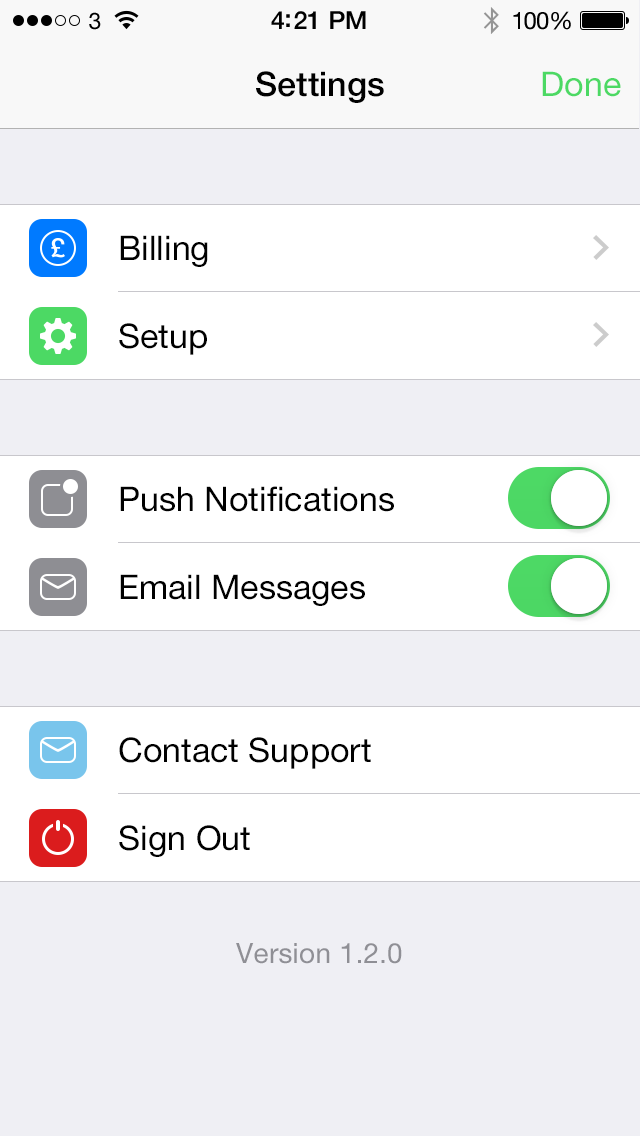
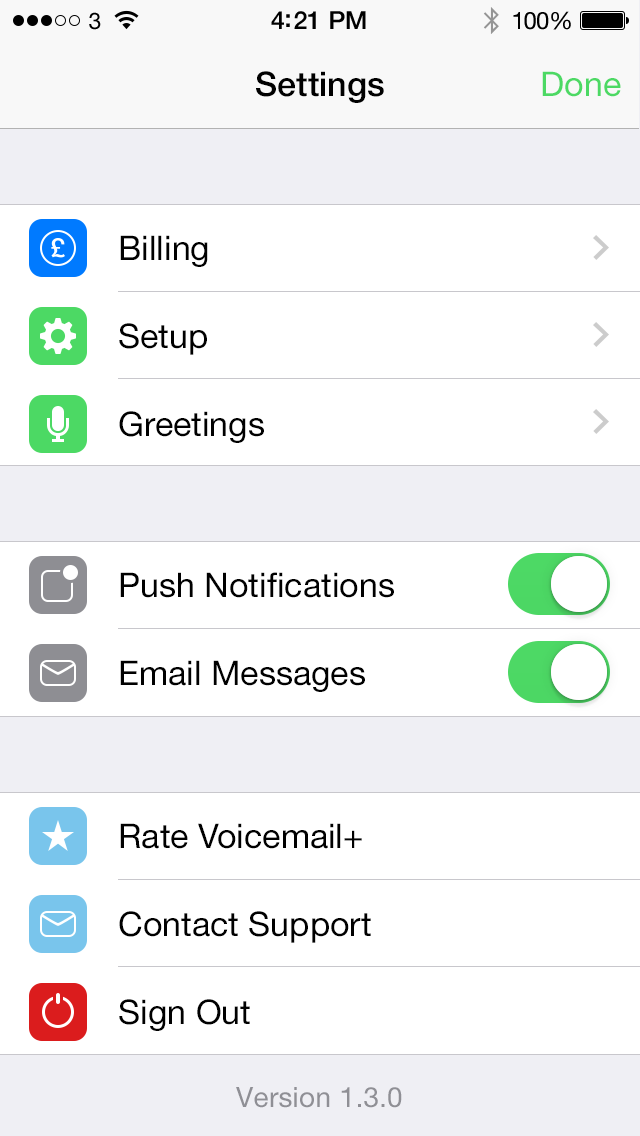
Updated screenshots and content for 1.3

diff --git a/index.html b/index.html
@@ -26,7 +26,7 @@ title: The best voicemail experience on iPhone
 <section id="screenshots">
 	<ul>
 		<li><img src="/assets/images/screenshots/1.png" width="180" height="320" alt="iPhone Screenshot" /></li>
-		<li><img src="/assets/images/screenshots/2.png" width="180" height="320" alt="iPhone Screenshot" /></li>
+		<li><img src="/assets/images/screenshots/7.png" width="180" height="320" alt="iPhone Screenshot" /></li>
 		<li><img src="/assets/images/screenshots/6.png" width="180" height="320" alt="iPhone Screenshot" /></li>
 		<li><img src="/assets/images/screenshots/4.png" width="180" height="320" alt="iPhone Screenshot" /></li>
 		<li><img src="/assets/images/screenshots/5.png" width="180" height="320" alt="iPhone Screenshot" /></li>

diff --git a/press.html b/press.html
@@ -27,6 +27,7 @@ title: Press
       <li>Forward your voicemail messages to an email address</li>
       <li>Push notifications when you receive a message</li>
       <li>Uncluttered and Apple-like user interface</li>
+      <li><span class="new">New in 1.3</span> Choose or record a custom greeting</li>
     </ul>
     <div id="screenshots">
     
@@ -50,7 +51,7 @@ title: Press
   
   <article>
     <h3>Press Kit</h3>
-    <p>Screenshots and icons can be downloaded here: <a href="/PressKit.zip">PressKit.zip (1.2MB)</a></p>
+    <p>Screenshots and icons can be downloaded here: <a href="/PressKit.zip">PressKit.zip (1.4MB)</a></p>
   </article>
   
   <article>

diff --git a/support.html b/support.html
@@ -41,7 +41,7 @@ title: Support &amp; FAQs
     <p>If you no longer wish to use Voicemail+ you <b>must</b> dial the deactivation number for your network. This will return your voicemail settings to their original network defaults and disable conditional call forwarding. You will then receive voicemail messages as you did before using Voicemail+.</p>
     <dl>
       <dt class="three">3</dt>
-      <dd><code>**004*00447782333123#</code></dd>
+      <dd><code>**004*00447782333123#</code> or call <code>333</code></dd>
       <dt class="ee">EE</dt>
       <dd><code>**004*00447953222222#</code></dd>
       <dt class="giffgaff">giffgaff</dt>

diff --git a/assets/css/style.css b/assets/css/style.css
@@ -288,6 +288,18 @@ section#support ul li, section#blog ul li {
   padding-left: 8px;
 }
 
+section#support ul li span.new {
+  background-color: #4cd763;
+  border-radius: 4px;
+  color: #fff;
+  font-size: 10px;
+  padding: 2px 6px;
+  text-transform: uppercase;
+  margin-right: 2px;
+  position: relative;
+  top: -2px;
+}
+
 section#launch article:last-child, section#support article:last-child, section#blog article:last-child {
   border: none;
   margin-bottom: 0;
